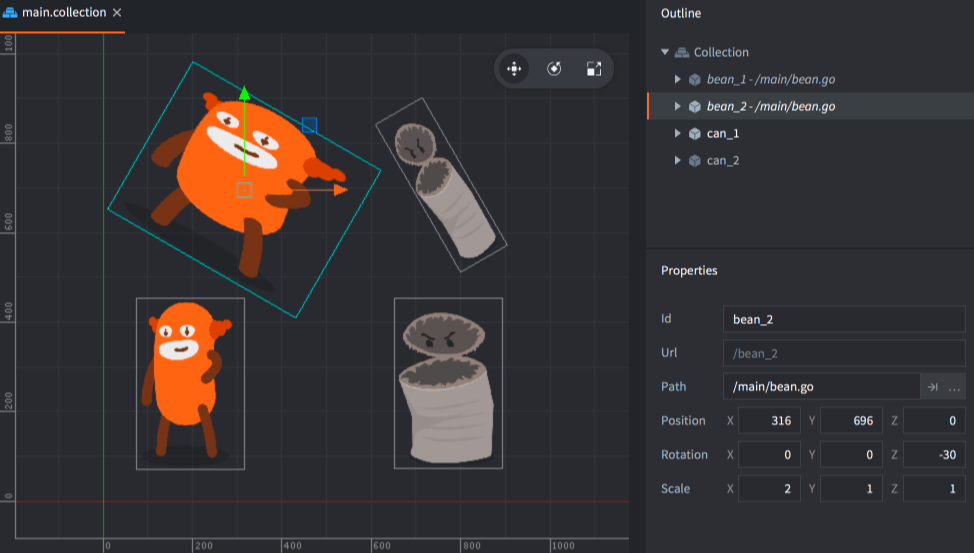
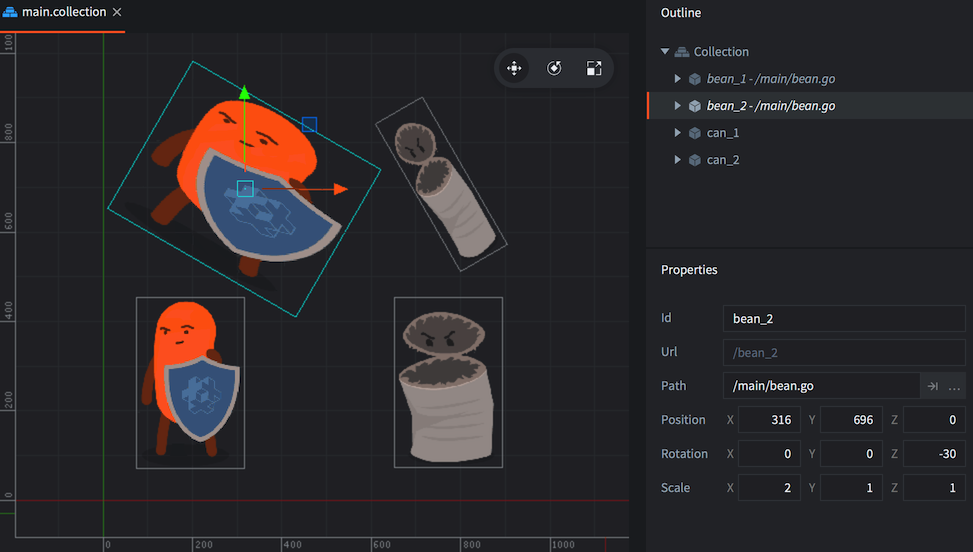
Clarified difference by in-place and by reference game objected

diff --git a/docs/en/manuals/building-blocks.md b/docs/en/manuals/building-blocks.md
@@ -86,6 +86,10 @@ The benefit of creating blueprint files becomes apparent when you have multiple 
 
 By changing the blueprint file, any instance that uses that file will immediately be updated.
 
+![GO changing blueprint](images/building_blocks/go_change_blueprint.png){srcset="images/building_blocks/go_change_blueprint@2x.png 2x"}
+
+Here the sprite image of the blueprint file is changed and immediately all instances using the file are updated:
+
 ![GO instances updated](images/building_blocks/go_instance2.png){srcset="images/building_blocks/go_instance2@2x.png 2x"}
 
 ## Childing game objects
